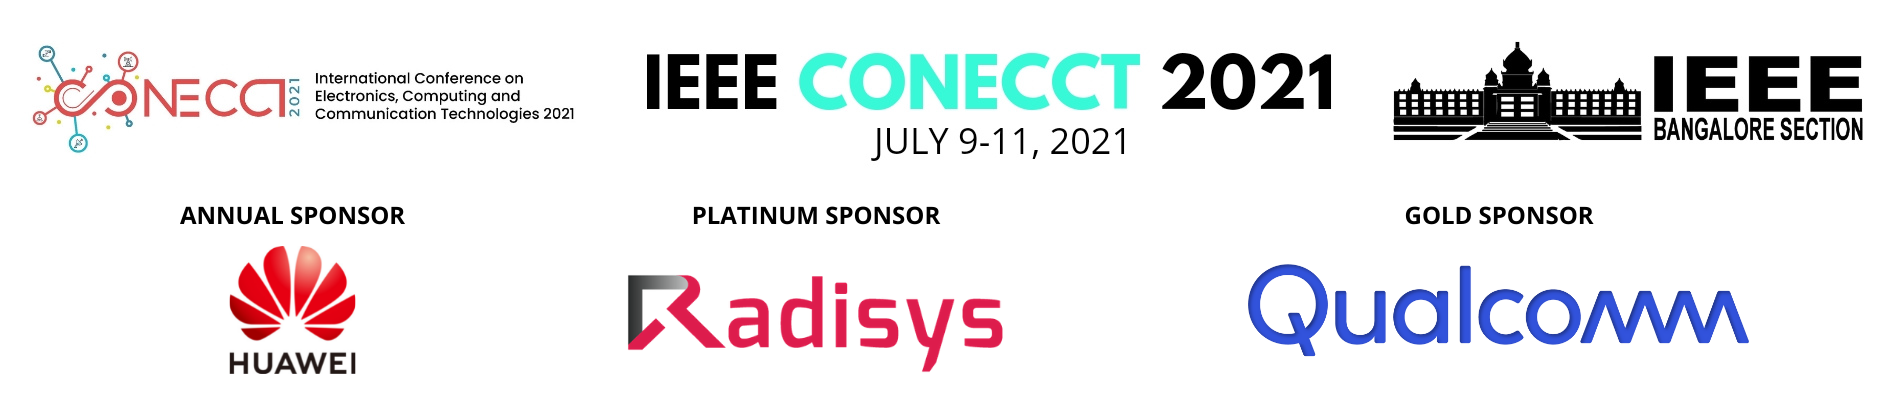
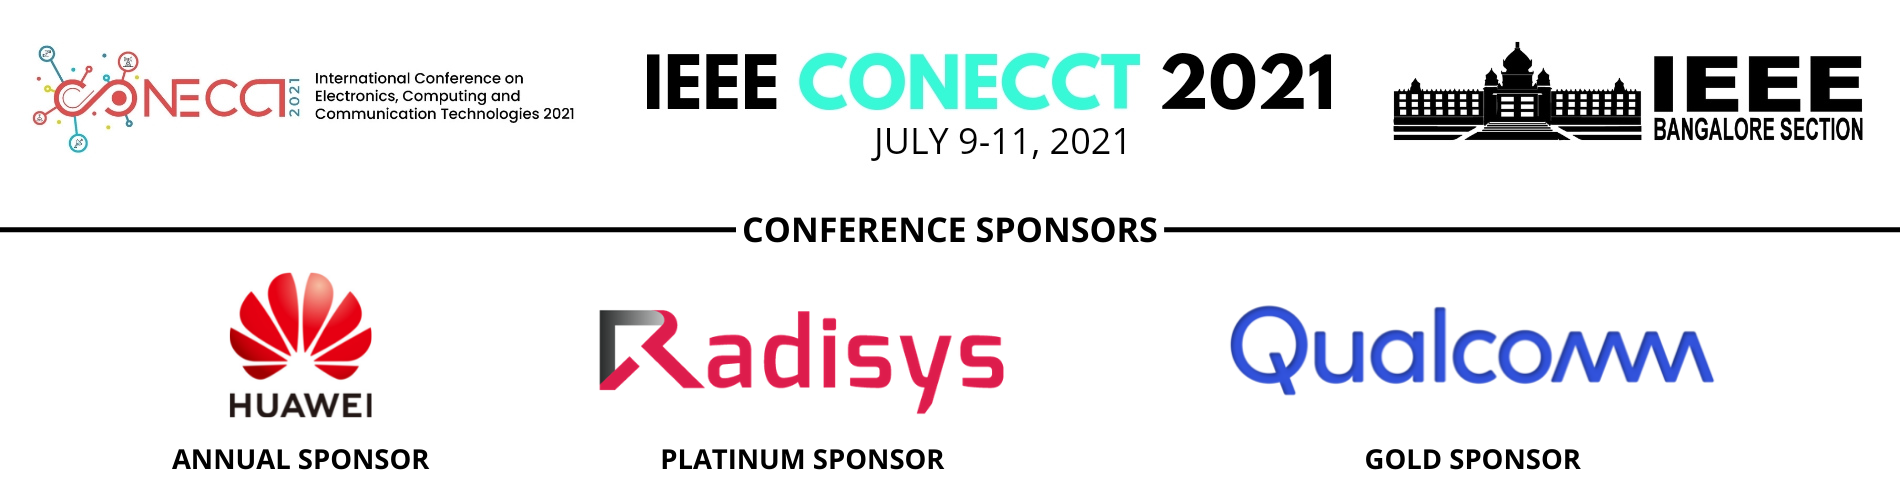
Header update

diff --git a/index.html b/index.html
@@ -1918,6 +1918,7 @@ Co-Chair: Dr. Vishwas Lakkundi, Chair - IEEE Computer Society Bangalore Chapter<
 							</strong></p>
                
               <br><br>
+              <!--
               <div class="section-header">
                               	<h2>ANNUAL SPONSOR OF IEEE BANGALORE SECTION</h2>
               </div>
@@ -1959,7 +1960,8 @@ Co-Chair: Dr. Vishwas Lakkundi, Chair - IEEE Computer Society Bangalore Chapter<
                      <img src="img/qc_logo_dml_rgb_blu_pos.png" alt="" class="img-fluid" width = "1100px" height = "900px">
                    </a>
                  </div>
-               </div></center>
+               </div></center> 
+               -->
 
 
 
